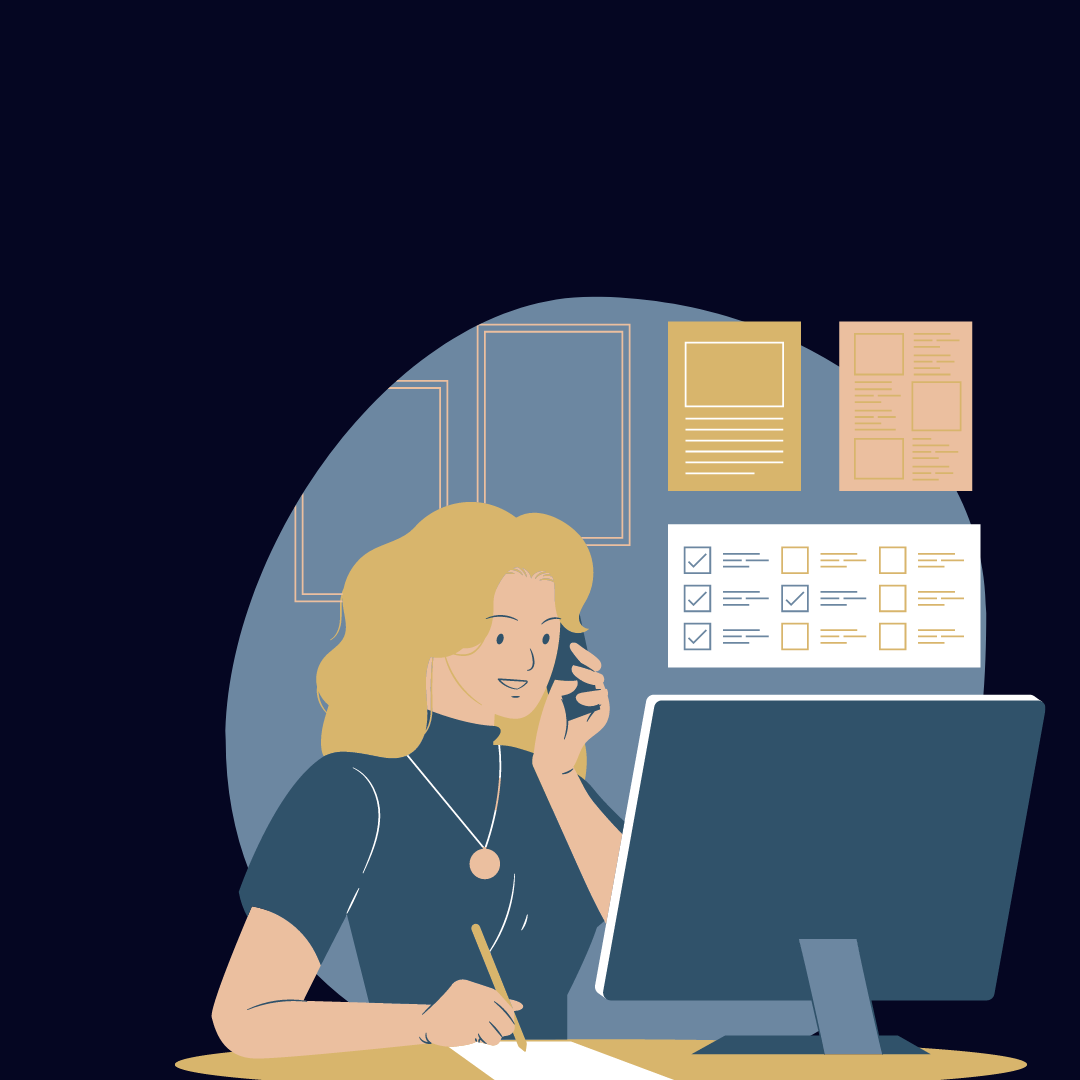
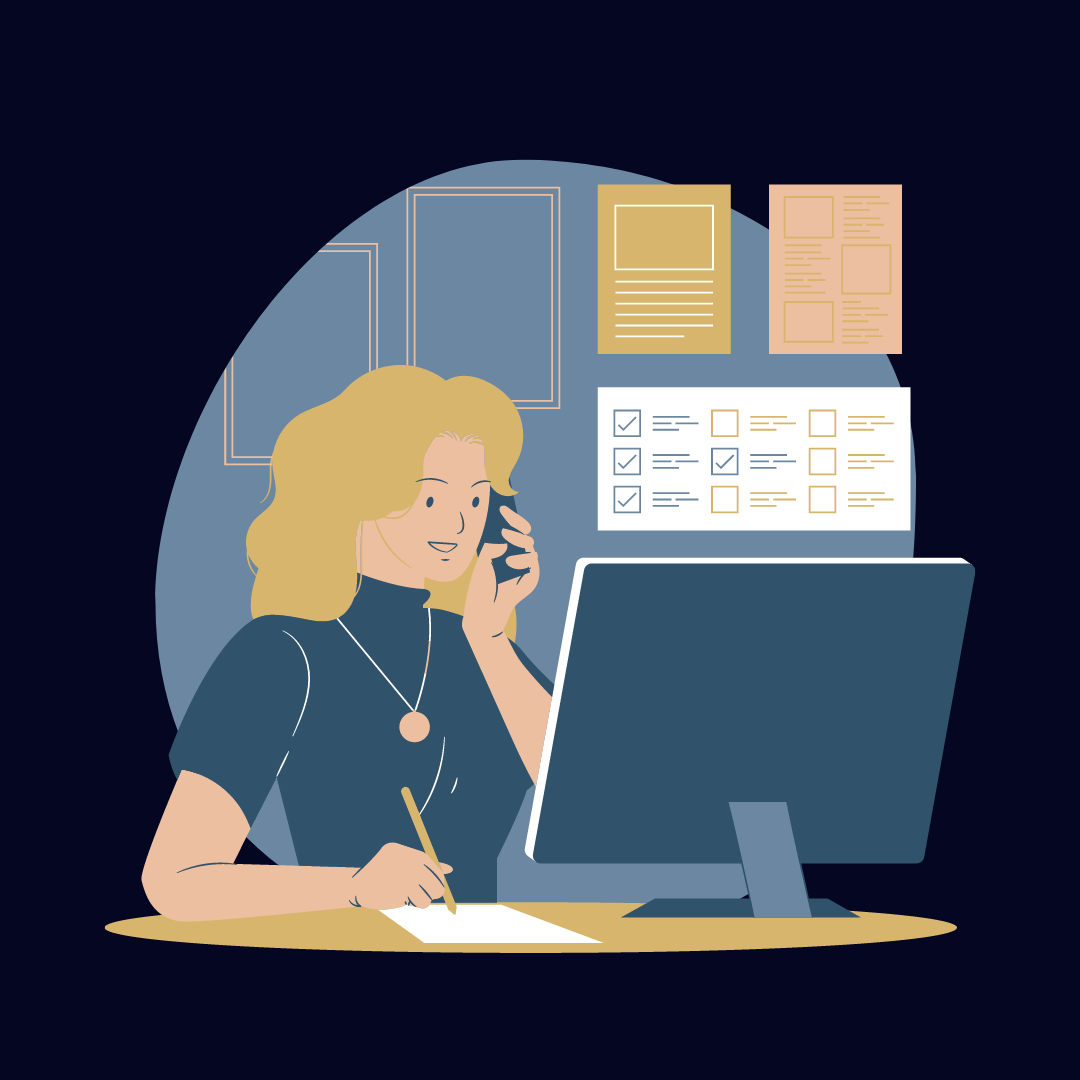
updated image in contact area and fixed security issue with target=_blank

diff --git a/src/components/ContactMe/ContactMe.jsx b/src/components/ContactMe/ContactMe.jsx
@@ -27,14 +27,26 @@ const ContactMe = () => {
                   </p>
 
                   <div className="socials-bar">
-                     <ContactInfoCard
-                        iconUrl={EmailIcon}
-                        text="Send me an email"
-                     />
-                     <ContactInfoCard
-                        iconUrl={LinkedinIcon}
-                        text="Add me on Linkedin"
-                     />
+                     <a
+                        href="https://www.linkedin.com/in/chelsea-snider/"
+                        target="_blank"
+                        rel="noreferrer"
+                     >
+                        <ContactInfoCard
+                           iconUrl={LinkedinIcon}
+                           text="Add me on Linkedin"
+                        />
+                     </a>
+                     <a
+                        href="mailto:cswebdev91@gmail.com"
+                        target="_blank"
+                        rel="noreferrer"
+                     >
+                        <ContactInfoCard
+                           iconUrl={EmailIcon}
+                           text="Send me an email"
+                        />
+                     </a>
                   </div>
                </div>
             </div>

diff --git a/src/components/ContactMe/ContactMe.css b/src/components/ContactMe/ContactMe.css
@@ -32,7 +32,7 @@
 .socials-bar {
     display: flex;
     flex-direction: row;
-    justify-content: center;
+    /* justify-content: center; */
 }
 
 .contact-content>div>img {
